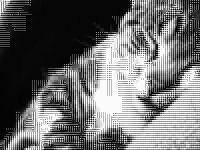
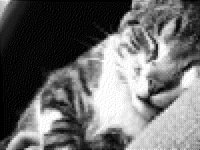
correção bug imagens com largura ou altura ímpar

diff --git a/color_recovering.py b/color_recovering.py
@@ -20,8 +20,8 @@ def color_recover(img_text):
         Cr = np.abs(CH1) - np.abs(CD1)
 
         # redimensiona o Cb e o Cr
-        Cb = cv2.resize(Cb, dsize=(2 * Cb.shape[1], 2 * Cb.shape[0]), interpolation=cv2.INTER_AREA)
-        Cr = cv2.resize(Cr, dsize=(2 * Cr.shape[1], 2 * Cr.shape[0]), interpolation=cv2.INTER_AREA)
+        Cb = cv2.resize(Cb, dsize=(img_text.shape[1], img_text.shape[0]), interpolation=cv2.INTER_AREA)
+        Cr = cv2.resize(Cr, dsize=(img_text.shape[1], img_text.shape[0]), interpolation=cv2.INTER_AREA)
 
         CH1 = np.zeros((CH1.shape[0], CH1.shape[1]))
         CV1 = np.zeros((CV1.shape[0], CV1.shape[1]))
@@ -32,7 +32,10 @@ def color_recover(img_text):
         # recupera o Y a partir da transformada wavelet inversa
         Y = pywt.waverec2(Coef, 'db1')
 
-        # Converte a imagem para BGR
+        #garante que o Y possua o mesmo tamanho da imagem texturizada
+        Y = cv2.resize(Y, dsize=(img_text.shape[1], img_text.shape[0]), interpolation=cv2.INTER_AREA)
+
+        #faz o merge dos três canais
         YCrCb = np.zeros((Y.shape[0], Y.shape[1], 3), np.float32)
         YCrCb[:, :, 0] = Y
         YCrCb[:, :, 1] = Cr

diff --git a/distortion_simulator.py b/distortion_simulator.py
@@ -26,16 +26,16 @@ def error_diffusion(img, size=(1, 1)):
 def print_scan(img, K=1):
 
         # redimensiona a imagem
-        img = cv2.resize(img, (K * img.shape[1], K * img.shape[0]), interpolation=cv2.INTER_AREA)
+        resized_img = cv2.resize(img, (K * img.shape[1], K * img.shape[0]), interpolation=cv2.INTER_AREA)
 
         # aplica um error diffusion
-        img = error_diffusion(img, img.shape)
+        resized_img = error_diffusion(resized_img, resized_img.shape)
         # aplica um filtro de média
-        kernel = np.ones((5, 5), np.float32) / 25
-        img = cv2.filter2D(img, -1, kernel)
-        img = np.uint8(img)
+        kernel = np.ones((3, 3), np.float32) / 9
+        resized_img = cv2.filter2D(resized_img, -1, kernel)
+        resized_img = np.uint8(resized_img)
         # volta a imagem para o tamanho original
-        img = cv2.resize(img, (int(img.shape[1] / K), int(img.shape[0] / K)), interpolation=cv2.INTER_AREA)
+        img = cv2.resize(resized_img, (img.shape[1], img.shape[0]), interpolation=cv2.INTER_AREA)
 
 
         return img

diff --git a/main.py b/main.py
@@ -108,6 +108,7 @@ if __name__ == "__main__":
                 if img is None:
                     print("Imagem %s não encontrada na pasta Imagens" % img_name)
                     exit(1)
+
                 img_text = inc.color_incorporation(img)
                 # Salvando a imagem resultante
                 cv2.imwrite("Texturizadas/%s" % img_name, img_text)

diff --git a/color_incorporation.py b/color_incorporation.py
@@ -66,4 +66,7 @@ def color_incorporation(img):
     Coef = cA2, (cH2, cV2, cD2), (cH1, cV1, cD1)
     img_back = pywt.waverec2(Coef, 'db1')
 
+    #garante que a imagem texturizada tenha o mesmo tamanho da original
+    img_back = cv2.resize(img_back, (img.shape[1], img.shape[0]), interpolation=cv2.INTER_AREA)
+
     return img_back
